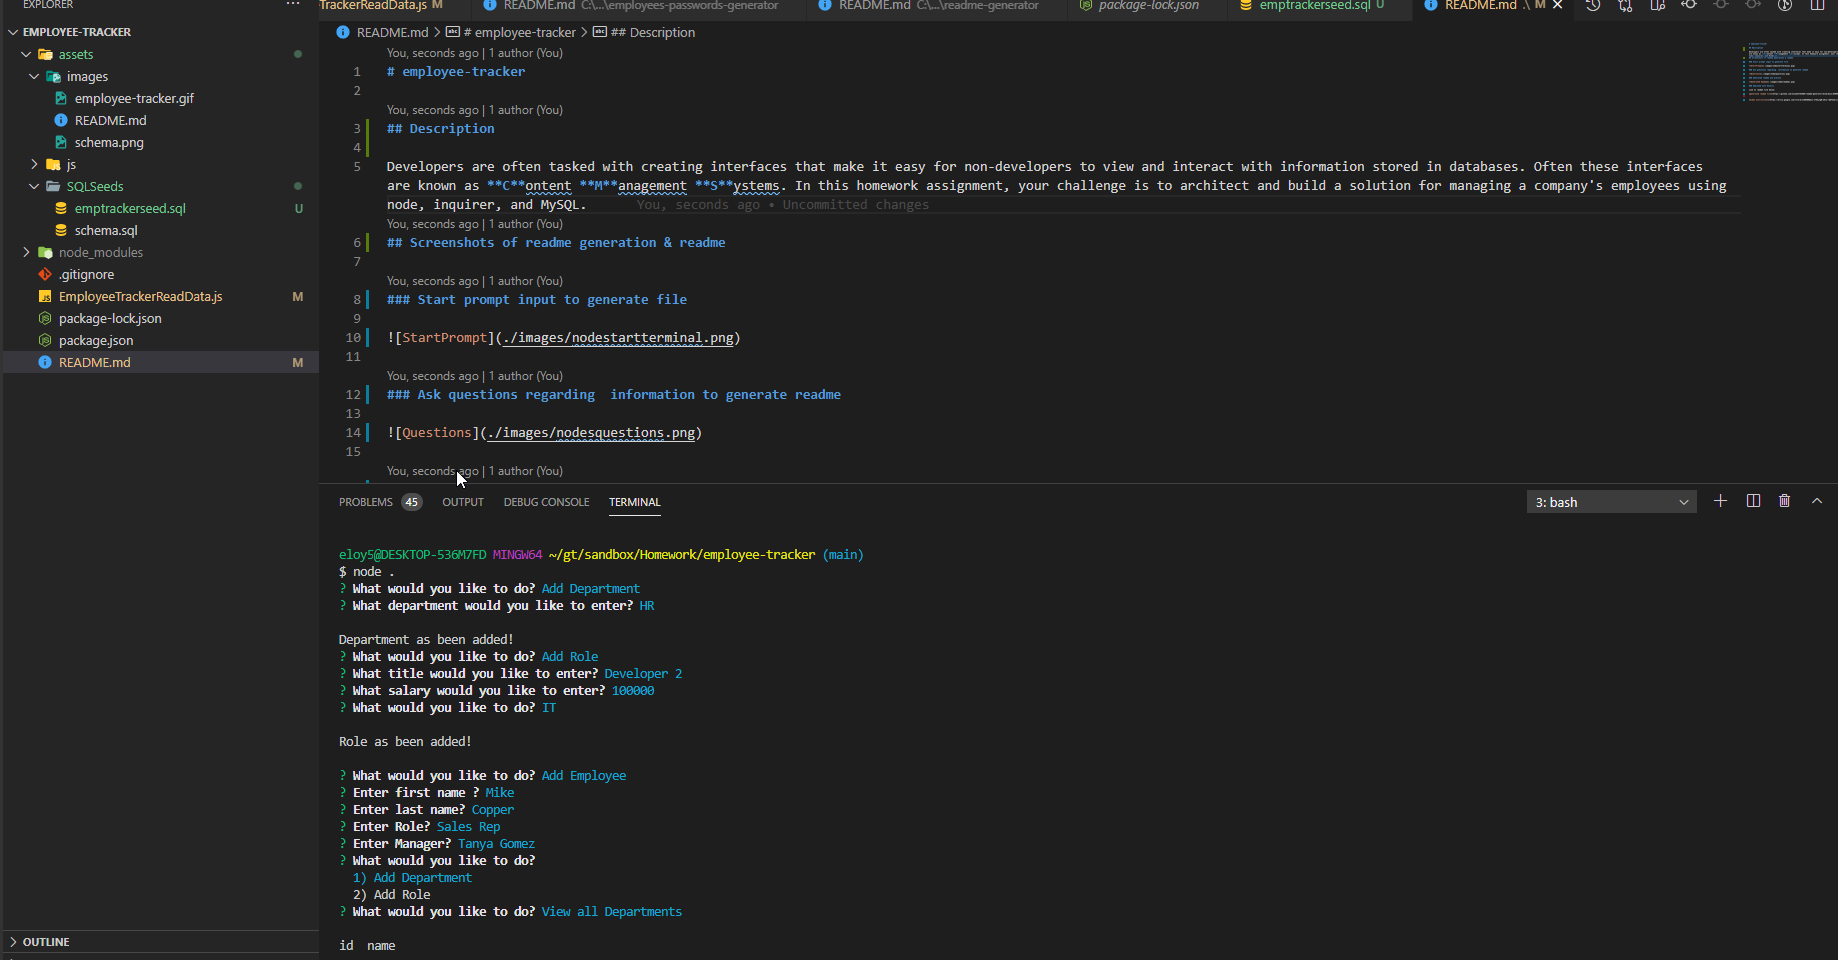
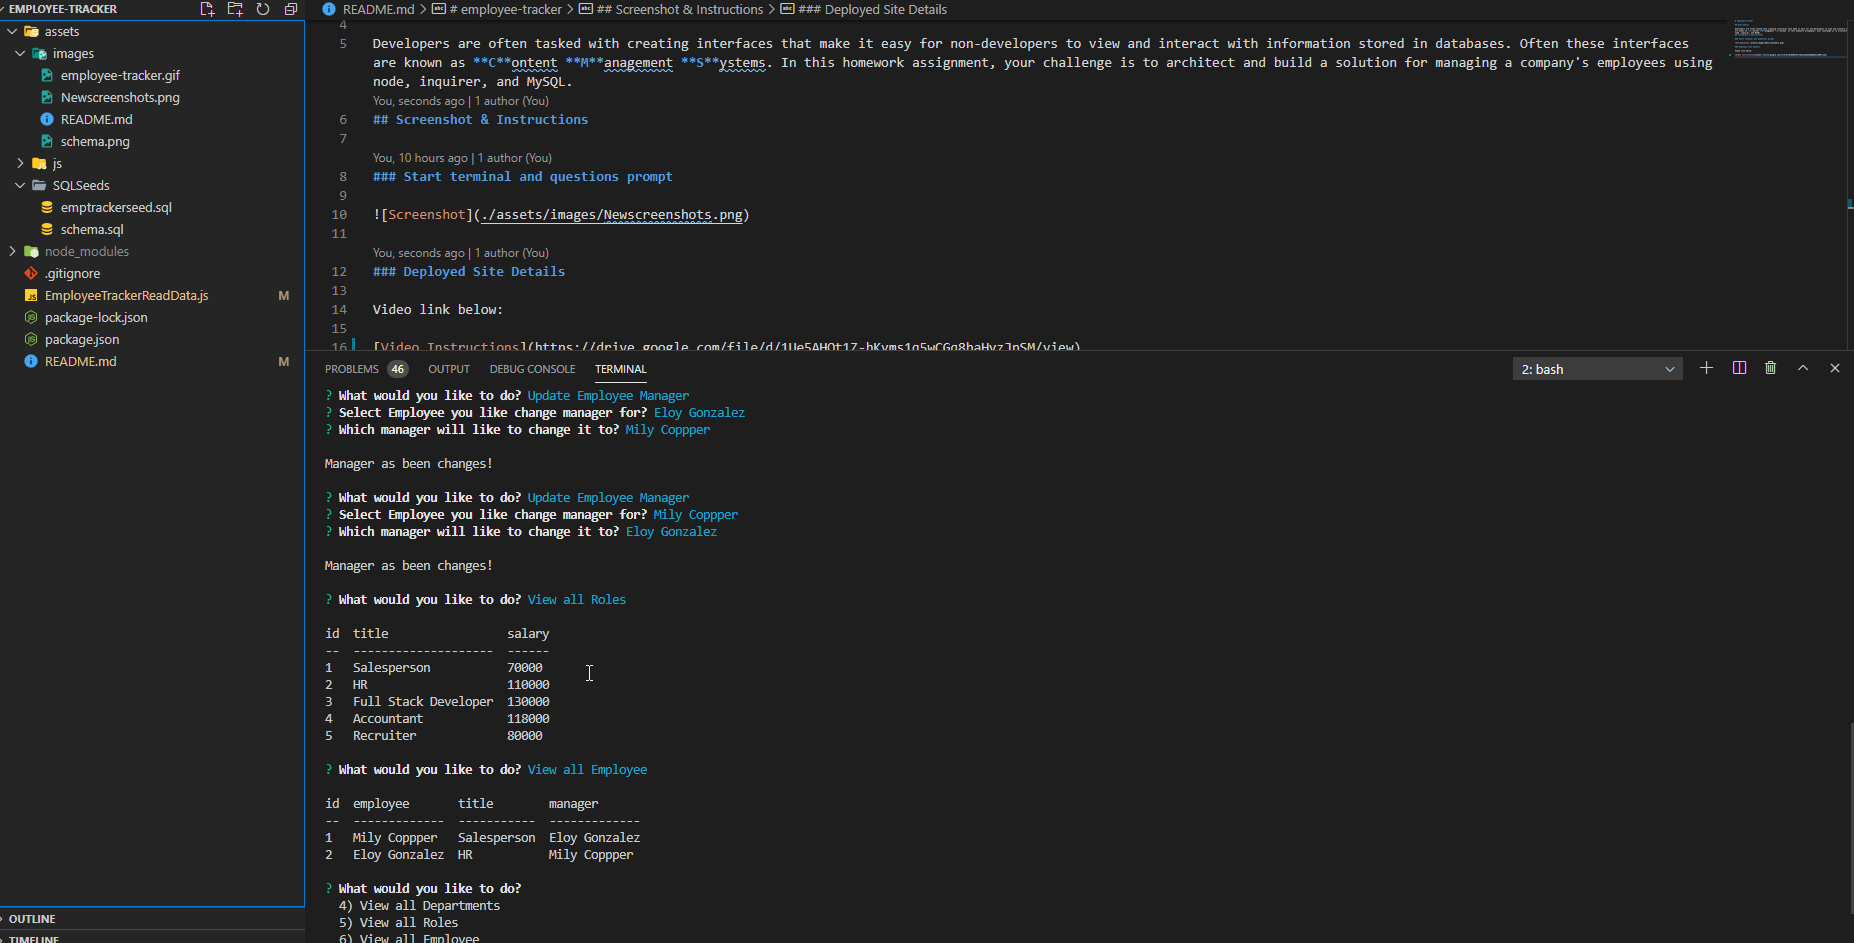
reade me update video

diff --git a/EmployeeTrackerReadData.js b/EmployeeTrackerReadData.js
@@ -100,7 +100,7 @@ const roleViewSearch = () => {
 //All employee Search
 const employeeViewSearch = () => {
   const query =
-    "SELECT e.id, CONCAT( e.first_name ,' ' , e.last_name) as employee , r.title, CONCAT(manager.first_name, ' ', manager.last_name)as manager FROM employee_tracker.employee e Left Join role r on e.id = r.id Left Join employee manager on e.id = manager.manager_id";
+    "SELECT e.id, CONCAT( e.first_name ,' ' , e.last_name) as employee , r.title, CONCAT(manager.first_name, ' ', manager.last_name)as manager FROM employee_tracker.employee e Left Join role r on e.id = r.id Left Join employee manager on e.manager_id = manager.id";
   console.log(" ");
   connection.query(query, "", (err, res) => {
     console.table(res);

diff --git a/README.md b/README.md
@@ -13,4 +13,4 @@ Developers are often tasked with creating interfaces that make it easy for non-d
 
 Video link below:
 
-[Video Instructions](https://drive.google.com/file/d/1YbyhDjekcOnz4TaNOR-lGxG0GLOLqML_/view)
+[Video Instructions](https://drive.google.com/file/d/1Ue5AHOt1Z-hKyms1q5wCGq8baHyzJpSM/view)
